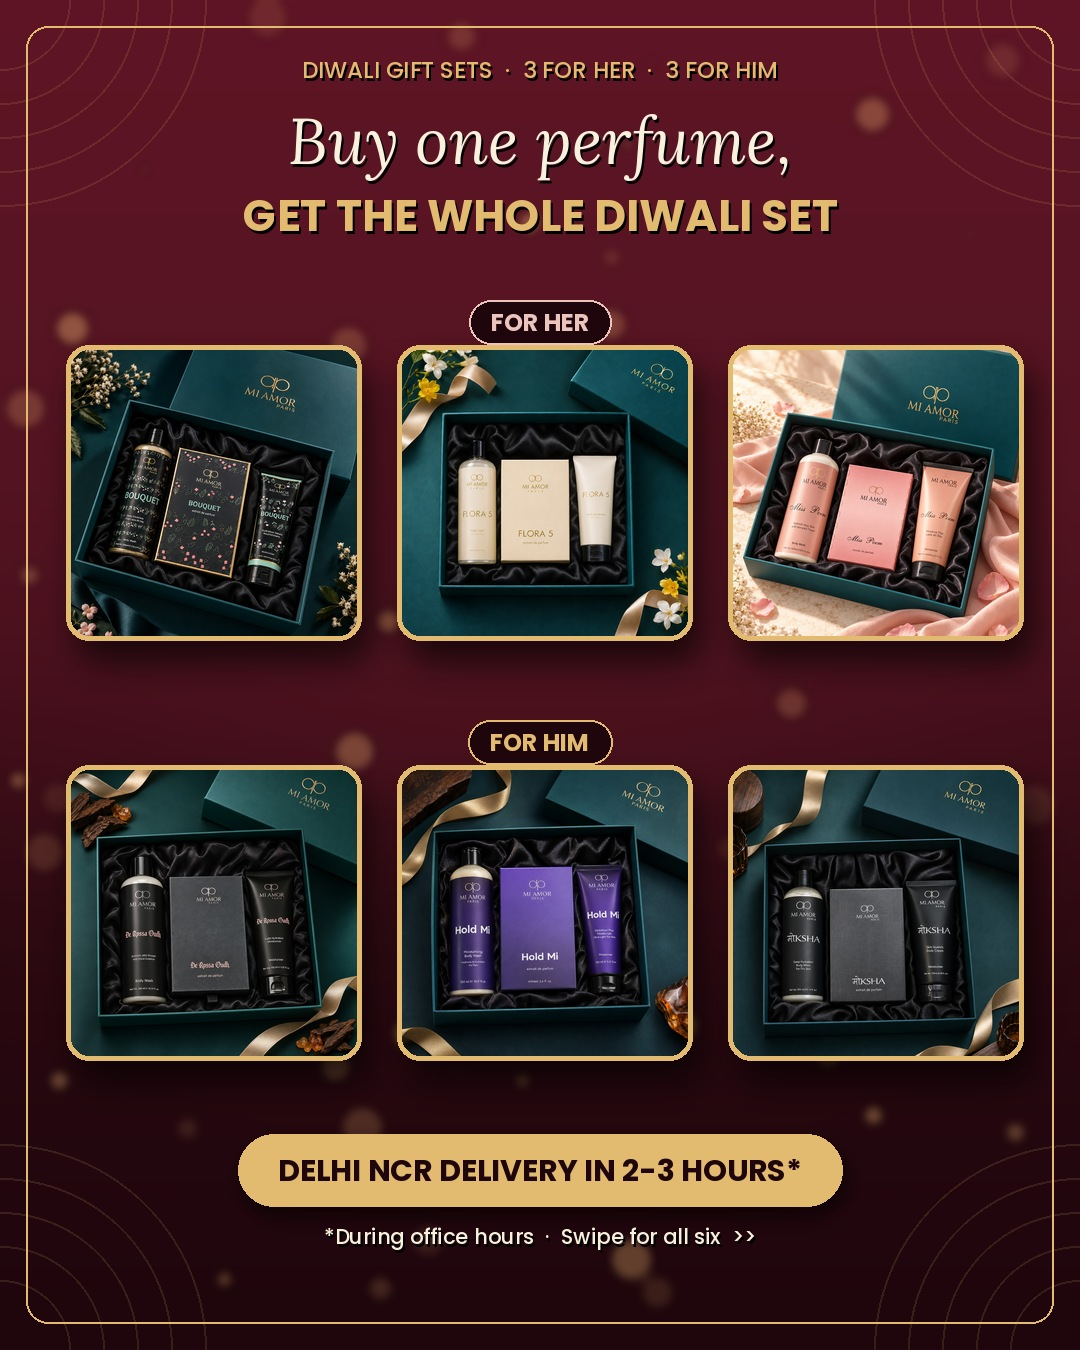
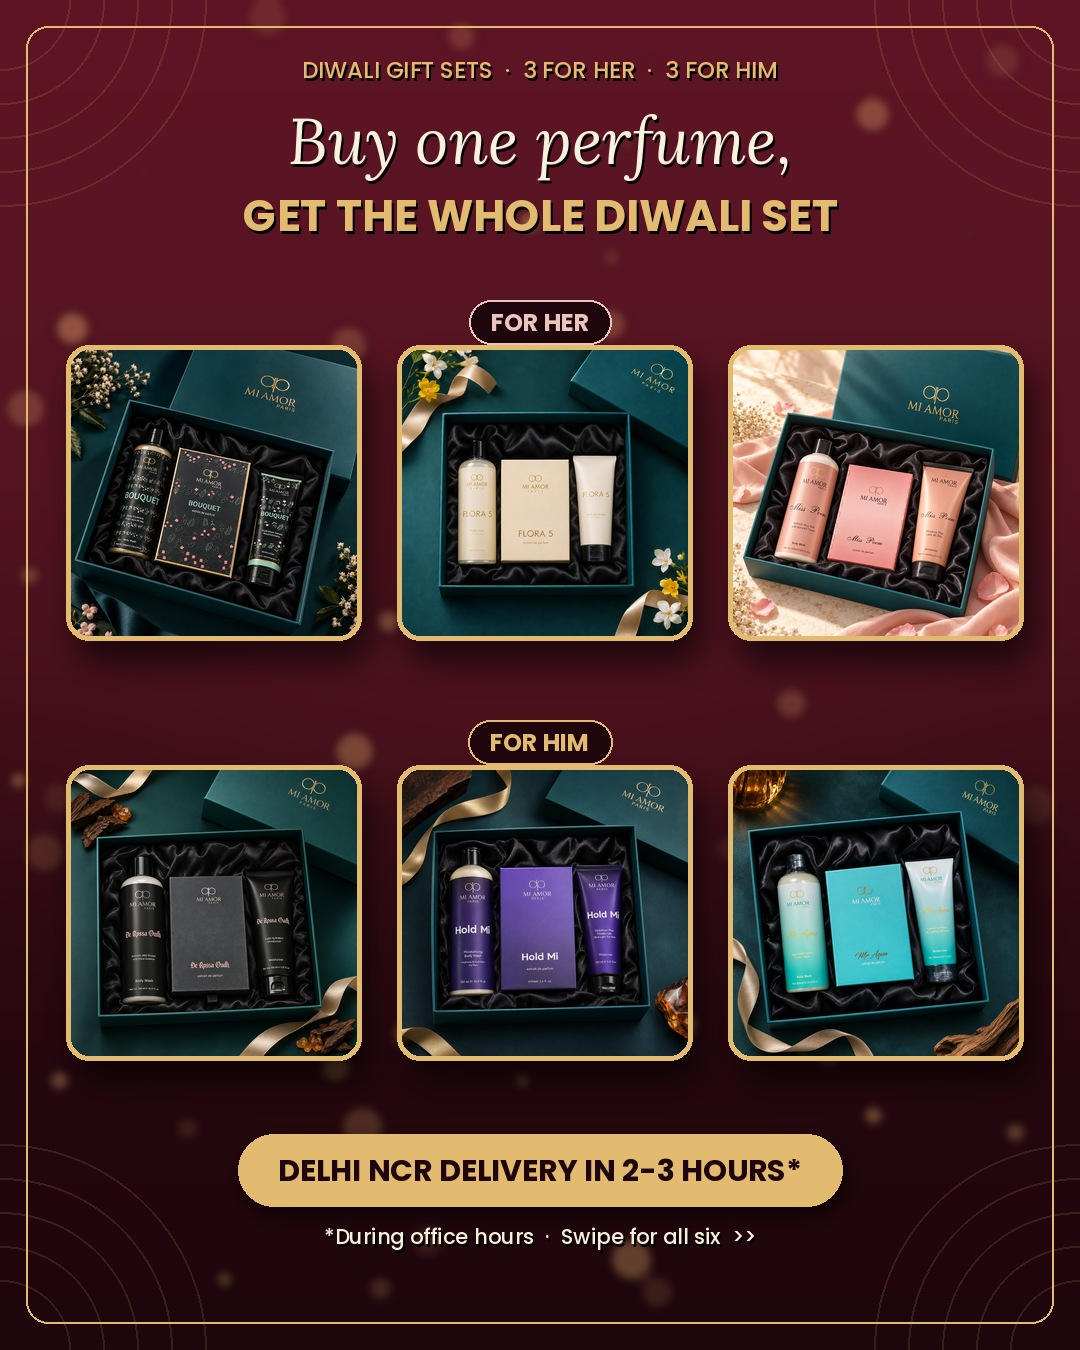
Gift sets 3x3: Mr Aqua replaces Moksha in the For Him row
Claude-Session: https://claude.ai/code/session_01EGKSNR6TWp2s62tz2nxdSr

Changed region(s): [[0.6722, 0.56, 0.9472, 0.8089]]

diff --git a/posts/2026-11-03-gift-sets-3x3/build.py b/posts/2026-11-03-gift-sets-3x3/build.py
@@ -9,13 +9,13 @@ def lora(s, it=False): return ImageFont.truetype("/usr/share/fonts/truetype/goog
 def pop(s, w="Medium"): return ImageFont.truetype(f"/usr/share/fonts/truetype/google-fonts/Poppins-{w}.ttf", s)
 GOLD = (226, 186, 112); IVORY = (250, 240, 222); BLUSH = (236, 196, 190); WINE = (74, 14, 28); DEEP = (30, 6, 12)
 LOGO = Image.open("../../assets/cutouts/logo_gold.png").convert("RGBA")
-P = {n: Image.open(f"source/{n}_box.jpg").convert("RGB") for n in ("bouquet", "flora5", "misspoem", "derossa", "holdmi", "moksha")}
+P = {n: Image.open(f"source/{n}_box.jpg").convert("RGB") for n in ("bouquet", "flora5", "misspoem", "derossa", "holdmi", "mraqua")}
 HER = [("bouquet", "BOUQUET", "Apple blossom  ·  peony & pear  ·  peach", "Fresh, joyful, full of life.", "For the one who lights up every room"),
        ("flora5", "FLORA 5", "Aldehyde & ylang-ylang  ·  jasmine  ·  amber & musk", "Graceful, powdery, timeless.", "For Maa, who made every Diwali feel like home"),
        ("misspoem", "MISS POEM", "Narcissus  ·  mimosa & vanilla  ·  amber", "Soft, sweet, poetic.", "For your sister, your forever partner-in-crime")]
 HIM = [("derossa", "DE ROSSA OUDH", "Saffron  ·  rose & coffee  ·  sandalwood & amber", "Warm, bold, regal.", "For Papa, who never asked for anything"),
        ("holdmi", "HOLD MI", "Lemon & bergamot  ·  nutmeg & saffron  ·  vetiver", "Crisp, spicy, hard to forget.", "For your brother, your forever bodyguard"),
-       ("moksha", "MOKSHA", "White musk  ·  bergamot & grapefruit  ·  sandalwood", "Fresh, calm, effortlessly classy.", "For the man who has everything, except this")]
+       ("mraqua", "MR AQUA", "Lime & orange  ·  sea notes  ·  white musk & oakmoss", "Fresh, crisp, confident.", "For the man who has everything, except this")]
 
 def bg(seed):
     im = Image.new("RGBA", (W, H)); d = ImageDraw.Draw(im)
